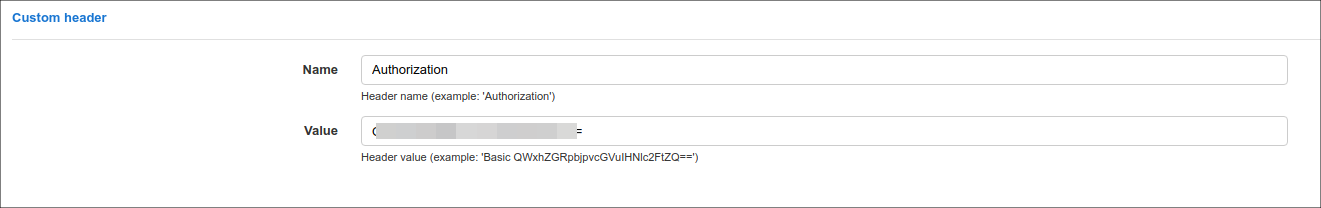
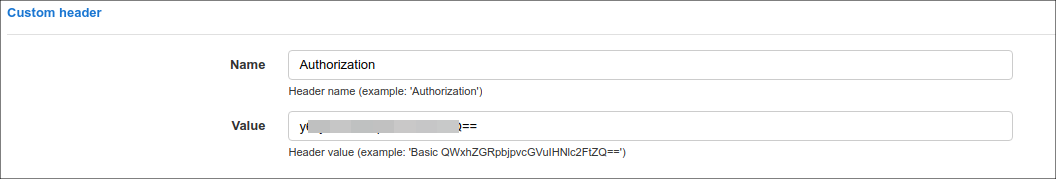
added clarification that custom header value = API key

Changed region(s): [[0.2188, 0.5587, 0.9688, 0.8939], [0.2188, 0.2514, 0.9688, 0.5307], [0.0, 0.0279, 0.0938, 0.1117]]

diff --git a/files/en/configuration/main_configuration/sms_config/sms_config.md b/files/en/configuration/main_configuration/sms_config/sms_config.md
@@ -165,15 +165,26 @@ More information you can find in these articles:
 
 ![main](main.png)
 
+* **Gateway URL** - ```https://platform.clickatell.com/messages```
+* **Payload** - ```{''to'': [''%TO%''], ''content'': ''%MESSAGE%''}```
+
+
 ![main](check_balance.png)
 
+* **Check URL** - ```https://platform.clickatell.com/public-client/balance?Authorization:your_API_key```
+
 ![main](custom_header.png)
+
+* **Custom Header Name** - header parameter name, e.g `Authorization`;
+* **Custom Header Value** - API Key.
 
 For more information, see:
 
 - https://www.clickatell.com/products/sms-platform
 
 - https://docs.clickatell.com/channels/sms-channels/sms-api-documentation/
+
+- https://docs.clickatell.com/channels/sms-channels/sms-api-reference/
 
 
 
